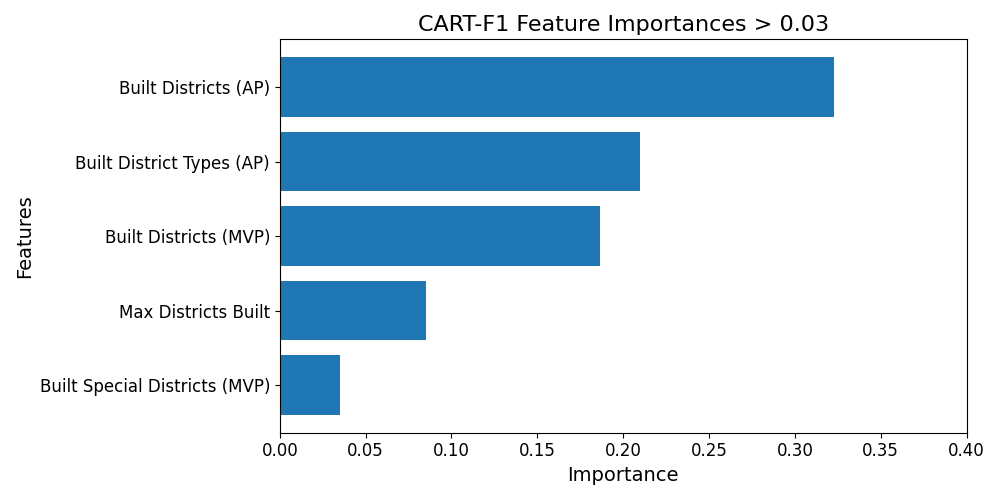
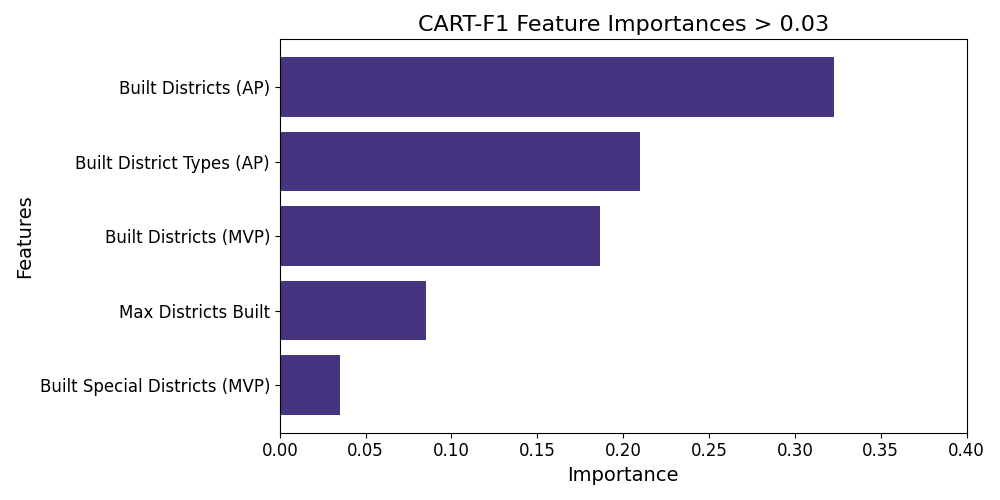
shap plots

Changed region(s): [[0.279, 0.09, 0.837, 0.84]]

diff --git a/classes/classification/AnaliseResultados.py b/classes/classification/AnaliseResultados.py
@@ -28,6 +28,7 @@ from sklearn.model_selection import learning_curve
 from sklearn.decomposition import PCA
 from sklearn.model_selection import StratifiedGroupKFold
 import matplotlib.pyplot as plt
+import matplotlib.cm as cm
 import joblib
 from classes.classification.ClassificaEstados import ClassificaEstados
 
@@ -280,22 +281,31 @@ class AnaliseResultados:
 
     @staticmethod
     def plot_importances(importances: dict, model_name: str):
-        
+        # Filtra apenas importâncias > 0.03
         filtered = {k: v for k, v in importances.items() if v > 0.03}
         # Ordena por importância decrescente
         sorted_importances = dict(sorted(filtered.items(), key=lambda x: x[1], reverse=True))
-        print(sorted_importances)
+        #print(sorted_importances)
+
+        values = np.array(list(sorted_importances.values()))
+        features = list(sorted_importances.keys())
+
+        #Gradiente vertical
+        values = np.array(list(sorted_importances.values()))
+        cmap = cm.viridis  # paleta Viridis
+        colors = cmap(values / values.max())  # normaliza para [0,1]
 
         # Plot
         plt.figure(figsize=(10, 5))
-        plt.barh(list(sorted_importances.keys()), list(sorted_importances.values()))
+        plt.barh(features, values, color=plt.cm.viridis(0.15))      # Usa azul do viridis
+        #plt.barh(list(sorted_importances.keys()), values, color=colors)  #Usa gradiente
         plt.xlabel("Importance", fontsize=14)
         plt.ylabel("Features", fontsize=14)
         plt.title(f"{model_name} Feature Importances > 0.03", fontsize=16)
         plt.gca().invert_yaxis()
         plt.xticks(fontsize=12)
         plt.yticks(fontsize=12)
-        plt.xlim(0, 0.4)  # Define o limite do eixo x de 0 a 0.4
+        plt.xlim(0, 0.4)  # define limite do eixo x
         plt.tight_layout()
 
         # Salva imagem
@@ -471,9 +481,14 @@ class AnaliseResultados:
 
     @staticmethod
     def shap_analysis(X_train, X_test, model_path, feature_names, model_name):
+        # Cria diretórios se não existirem
+        base_dir = f"./classes/classification/results/shap/{model_name}/"
+        os.makedirs(base_dir, exist_ok=True)
 
+        # Carrega o modelo
         modelo = joblib.load(model_path)
 
+        # Verifica se é pipeline
         if hasattr(modelo, "steps"):  
             if len(modelo.steps) > 1:
                 preprocessor = modelo[:-1]
@@ -488,42 +503,61 @@ class AnaliseResultados:
             model_final = modelo
             X_train_t = X_train
             X_test_t = X_test
+
+        # Cria TreeExplainer
         expl = shap.TreeExplainer(model_final, X_train_t, feature_names=feature_names, model_output="probability")
 
-        # Waterfall para primeira amostra
-        sv_first = expl(X_test_t[:1])
-
-        # Dependence plot para múltiplas amostras
-        subset = X_test_t[:1000]  # ou mais amostras
-        sv_subset = expl(subset)
-
-        X_array = subset.values if hasattr(subset, "values") else np.array(subset)
-
-        # Waterfall plot
+        # Waterfall plot para a primeira amostra real
+        sv_first = expl(X_test_t.iloc[[0]] if hasattr(X_test_t, "iloc") else X_test_t[:1])
         for class_idx in range(sv_first.values.shape[-1]):
             sv_single = shap.Explanation(
                 values=sv_first.values[0, :, class_idx],
                 base_values=sv_first.base_values[0, class_idx],
                 data=sv_first.data[0],
-                feature_names=sv_first.feature_names
+                feature_names
+                =sv_first.feature_names
             )
-            shap.waterfall_plot(sv_single)
-            plt.savefig(f"./classes/classification/results/shap_{model_name}_class{class_idx}.png", dpi=300, bbox_inches='tight')
-            plt.close()
+        fig = plt.figure(figsize=(12, 6))
+        shap.waterfall_plot(sv_single, max_display=30, show=False)
 
-        # Dependence plot
+        # Mostra na tela
+        plt.show()  
+
+        # Salva
+        plt.savefig(os.path.join(base_dir, f"waterfall_class{class_idx}.png"), dpi=300, bbox_inches='tight')
+        plt.close(fig)
+
+        # Subset para summary e dependence plots
+        subset = X_test_t.iloc[:1000] if hasattr(X_test_t, "iloc") else X_test_t[:1000]
+        sv_subset = expl(subset)
+        X_array = subset.values if hasattr(subset, "values") else np.array(subset)
+
+        # Summary plot
+        plt.figure(figsize=(12, 8))
+        shap.summary_plot(sv_subset, X_array, feature_names=feature_names, show=False)
+
+        # Mostra na tela
+        plt.show()
+
+        # Salva
+        plt.savefig(os.path.join(base_dir, "summary.png"), dpi=300, bbox_inches='tight')
+        plt.close()
+
+        # Dependence plots
         for i, feat in enumerate(feature_names):
             for class_idx in range(sv_subset.values.shape[-1]):
                 shap.dependence_plot(
                     feat,
                     sv_subset.values[:, :, class_idx],
                     X_array,
+                    interaction_index='auto',  # ou None se não quiser cor de interação
                     show=False,
                     feature_names=feature_names
                 )
-                plt.savefig(f"./classes/classification/results/shap/shap_{model_name}_dependence_{feat}_class{class_idx}.png", dpi=300, bbox_inches='tight')
+                plt.savefig(os.path.join(base_dir, f"dependence_{feat}_class{class_idx}.png"), dpi=300, bbox_inches='tight')
                 plt.close()
-                
+
+ 
     # Plota árvore
     @staticmethod
     def plot_tree(model_path: str, model_name, nomes_caracteristicas):

diff --git a/Principal.py b/Principal.py
@@ -90,14 +90,15 @@ metrics = [
     "Precision"
 ]
 
-ColetaEstados.correlacao()
+#ColetaEstados.correlacao()
 
 #for i in range(len(studies)):
 #    AnaliseResultados.plot_study_trials(studies[i], metrics[i], studies_names[i])
 
+X_train, X_test, y_train, y_test = ClassificaEstados.ler_amostras(x, y, True)
 #print(X_test[0])
 #print(y_test[0])
-#AnaliseResultados.shap_analysis(X_train, X_test, models[3], feature_names, model_names[3])
+AnaliseResultados.shap_analysis(X_train, X_test, models[3], feature_names, model_names[3])
 
 #AnaliseResultados.plot_tree(models[2], model_names[2], feature_names)
 
